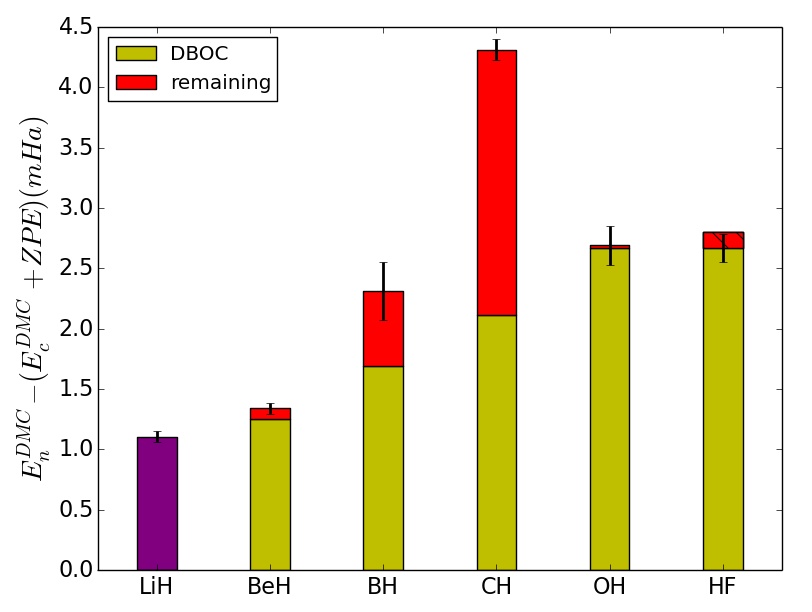
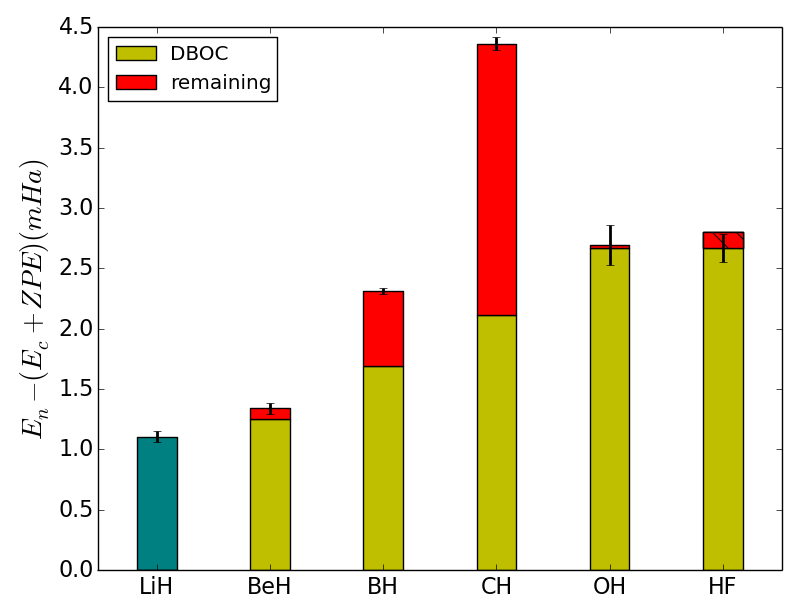
Beefed up atomic analysis
Still haven't put in Li+ results

diff --git a/main.tex b/main.tex
@@ -10,7 +10,7 @@
 \title{How Large are Non-adiabatic Effects in Realistic Systems?}
 \input{Section/authors}
 \begin{abstract}
-In this work we calculate the non-relativistic ground-state energies of atomic and molecular systems with and without the Born-Oppenheimer approximation. For this we utilize the fixed-node diffusion Monte Carlo method, in which the nodes depend on both the electronic and ionic positions. We report ground-state energies for all systems, ionization energies for the first-row atoms and atomization energies for the first-row hydrides. We find the ionization energies of the atoms to be independent of the Born-Oppenheimer approximation. The atomization energies, however, are influenced by the non-adiabatic coupling between electrons and nuclei at the mHa level. We demonstrate that the fixed-node approximation provides a highly accurate and scalable approach to treating molecular systems beyond the Born-Oppenheimer approximation.
+In this work we calculate the non-relativistic ground-state energies of atomic and molecular systems with and without the Born-Oppenheimer approximation. For this we utilize the fixed-node diffusion Monte Carlo method, in which the nodes depend on both the electronic and ionic positions. We report ground-state energies for all systems, ionization energies for the first-row atoms and atomization energies for the first-row hydrides. We find the ionization energies of the atoms to be independent of the Born-Oppenheimer approximation. The atomization energies, however, are influenced by the non-adiabatic coupling between electrons and nuclei at the sub mHa level. We demonstrate that the fixed-node approximation provides a highly accurate and scalable approach to treating molecular systems beyond the Born-Oppenheimer approximation.
 \end{abstract}
 \maketitle
 
@@ -29,16 +29,22 @@ In all but a handful of previous QMC simulations~\cite{Ceperley_1987,Natoli_1993
 
 \subsection{Electronic Wave Function and Optimization}
 
-There are several different approaches for generating high quality electronic wave functions for a FN-DMC calculation~\cite{Umrigar_Alleviation,Toulouse_Bench,Brown_Bench,Seth_Bench}. We use an initial guess for the wave function that is generated from complete active space self-consistent-field (CASSCF) \cite{Chaban_MCSCF,Szabo} calculations using the quantum chemistry package GAMESS \cite{GAMESS}. The optimized orbitals are then used in a configuration interaction singles and doubles (CISD) calculation to generate a series of configuration state functions (CSF)~\cite{Clark_Bench}. For LiH and BeH, a CASSCF calculation with a large active space is used in place of CISD. The specific choices of active space for the systems studied are listed in Table \ref{tab:CAS}. The multi-CSF expansion of the wave function can be expressed in the following form,
+There are several different approaches for generating high quality electronic wave functions for a FN-DMC calculation~\cite{Umrigar_Alleviation,Toulouse_Bench,Brown_Bench,Seth_Bench}. We use an initial guess for the wave function that is generated from complete active space self-consistent-field (CASSCF) \cite{Chaban_MCSCF,Szabo} calculations using the quantum chemistry package GAMESS \cite{GAMESS}. The optimized orbitals are then used in a configuration interaction singles and doubles (CISD) calculation to generate a series of configuration state functions (CSF)~\cite{Clark_Bench}. For LiH and BeH, a CASSCF calculation with a large active space is used in place of CISD and for Li$^+$ only a single determinant generated from Hartree-Fock is used. The specific choices of active space for the systems studied are listed in Table \ref{tab:CAS}. The multi-CSF expansion of the wave function can be expressed in the following form,
 \begin{align}
 \Psi_{\text{CISD}}(\vec{r};\vec{R}_o)=\sum\limits_{i=1}^{N_{\text{CSF}}}\alpha_i\phi_i(\vec{r};\vec{R}_o), \label{eq:psi_gms}
 \end{align}
 where $\vec{r}$ refers to the spatial coordinates of all the electrons and $\vec{R}_o$ refers to the equilibrium positions of all the ions. $\phi_i(\vec{r})$ and $\vec{\alpha}=\{\alpha_1,\alpha_2,\dots\}$ are the CSF and CI coefficients generated from CISD. The cc-pV5Z basis \cite{dunning} is used for the atomic systems and Roos Augmented Triple Zeta ANO basis~\cite{roos} for the molecular systems except for the smallest system LiH where the cc-pV5Z basis is used.
 
-\begin{table}
-\caption{Quantum Chemistry Parameters: CAS(m,n) indicates we distribute m electrons in to n active orbitals in the CASSCF calculation. All remaining molecular orbitals are used in the CISD procedure. For the larger systems, one core orbital is frozen in the CISD calculation.\label{tab:CAS}}
+After the multi-CSF expansion is generated, we impose the electron-nucleus cusp condition on each molecular orbital~\cite{cusp} and add a Jastrow factor to the wave function to include electron correlation~\cite{Kato}. Our Jastrow factor contains electron-electron, electron-nucleus and electron-electron-nucleus terms. The full electronic wave function used in FN-DMC is then,
+\begin{align}
+\psi_e(\vec{r};\vec{R})=e^{J(\vec{r},\vec{R},\vec{\beta})}\Psi_{\text{CISD}}(\vec{r};\vec{R})\label{eq:psie}
+\end{align}
+We optimize the CSF and Jastrow coefficients $\vec{\alpha},\vec{\beta}$ simultaneously with QMCPACK \cite{QMCPACK}. Optimization is performed with the ions clamped to their equilibrium positions. We include all CSFs with coefficients lager than a specific cutoff $\epsilon$ to lend reasonable flexibility to the wave function during optimization. We include as many CSFs as possible to maximize the flexibility of the wave function. However, the inclusion of too many CSFs with small expansion coefficients can introduce noise as they require a large number of samples in the optimization step to be optimized. We have chosen $\epsilon$ to restrict the number of CSFs in the wave function to be $\sim$1000 in all systems. Optimization was performed with the linear method with roughly $10^6$ statistically independent samples, and we use a cost function consisting of equal parts average local energy and reweighted variance. 
+
+\begin{table}[h]
+\caption{Quantum chemistry parameters: CAS(m,n) indicates we distribute m electrons in to n active orbitals in the CASSCF calculation. All remaining molecular orbitals are used in the CISD procedure. For the larger systems, one core orbital is frozen in the CISD calculation.\label{tab:CAS}}
 \begin{tabular}{lc|cc} \hline\hline
-$\text{Li}^+$ & CAS2.5-CISD(FCI) & Li & CAS3.23-CISDT(FCI) \\ 
+$\text{Li}^+$ & Hartree-Fock & Li & CAS3.23-CISDT(FCI) \\ 
 $\text{Be}^+$ & CAS3.18-CISD & Be & CAS4.20-CISD \\ 
 $\text{B}^+$ & CAS4.40-CISD & B & CAS5.40-CISD \\
 $\text{C}^+$ & CAS5.16-CISD & C & CAS6.16-CISD \\
@@ -50,12 +56,6 @@ BH & CAS4.14-CISD & CH & CAS7.20-CISD \\
 OH & CAS9.14-CISD(1) & HF & CAS10.16-CISD(1) \\ \hline \hline
 \end{tabular}
 \end{table}
-
-After the multi-CSF expansion is generated, we impose the electron-nucleus cusp condition on each molecular orbital~\cite{cusp} and add a Jastrow factor to the wave function to include electron correlation~\cite{Kato}. Our Jastrow factor contains electron-electron, electron-nucleus and electron-electron-nucleus terms. The full electronic wave function used in FN-DMC is then,
-\begin{align}
-\psi_e(\vec{r};\vec{R})=e^{J(\vec{r},\vec{R},\vec{\beta})}\Psi_{\text{CISD}}(\vec{r};\vec{R})\label{eq:psie}
-\end{align}
-We optimize the CSF and Jastrow coefficients $\vec{\alpha},\vec{\beta}$ simultaneously with QMCPACK \cite{QMCPACK}. Optimization is performed with the ions clamped to their equilibrium positions. We include all CSFs with coefficients lager than a specific cutoff $\epsilon$ to lend reasonable flexibility to the wave function during optimization. We include as many CSFs as possible to maximize the flexibility of the wave function. However, the inclusion of too many CSFs with small expansion coefficients can introduce noise as they require a large number of samples in the optimization step to be optimized. We have chosen $\epsilon$ to restrict the number of CSFs in the wave function to be $\sim$1000 in all systems. Optimization was performed with the linear method with roughly $10^6$ statistically independent samples, and we use a cost function consisting of equal parts average local energy and reweighted variance. 
 
 \begin{figure}[h]
 \includegraphics[width=9cm]{fig1a.pdf}
@@ -78,7 +78,7 @@ The ionic wave function consists of simple products of Gaussian wave functions o
 \psi_I(\vec{R})\propto \prod\limits_{i,j>i}e^{-a_{ij}(\vert \vec{R}_i-\vec{R}_j\vert-b_{ij})^2},
 \label{wfs_ions}
 \end{align}
-where $a_{ij}$ is a coefficient for the ionic wave function that is optimized and $b_{ij}$ are taken to be the equilibrium distances between the nuclei.  The equilibrium geometries for BeH and BH are chosen to be the ECG-optimized distances for comparison with the ECG method \footnote{We use 3.015 Bohr as the equilibrium inter-nuclei distance for LiH, as this geometry is found to provide a lower clamped-nuclei ground-state energy than the ECG optimized distance of 3.061 Bohr.}, and the geometries for the rest of the hydrides are taken from experimental data \cite{CCCBDB}. FN-DMC is then performed with the fully optimized electron-ion wave function. We perform timestep extrapolation for all of the tested systems. At least four timesteps from $0.005~\text{Ha}^{-1}$ to $0.0005~\text{Ha}^{-1}$ are used for all systems in the adiabatic FN-DMC calculation and at least three timesteps from $0.005~\text{Ha}^{-1}$ to $0.0001~\text{Ha}^{-1}$ are used in the non-adiabatic FN-DMC calculation.
+where $a_{ij}$ is a coefficient for the ionic wave function that is optimized and $b_{ij}$ are taken to be the equilibrium distances between the nuclei.  The equilibrium geometries for BeH and BH are chosen to be the ECG-optimized distances for comparison with the ECG method, and the geometries for the rest of the hydrides are taken from experimental data \cite{CCCBDB}. We use 3.015 Bohr as the equilibrium inter-nuclei distance for LiH, as this geometry is found to provide a lower clamped-nuclei ground-state energy than the ECG optimized distance of 3.061 Bohr. FN-DMC is then performed with the fully optimized electron-ion wave function. We perform timestep extrapolation for all of the tested systems. At least four timesteps from $0.005~\text{Ha}^{-1}$ to $0.0005~\text{Ha}^{-1}$ are used for all systems in the adiabatic FN-DMC calculation and at least three timesteps from $0.005~\text{Ha}^{-1}$ to $0.0001~\text{Ha}^{-1}$ are used in the non-adiabatic FN-DMC calculation.
 
 Using definitions from \cite{Cederbaum_Review}, the adiabatic approximation will refer to the complete negligence of the non-adiabatic coupling matrix $\hat{\Lambda}$ when the Schr$\ddot{\text{o}}$dinger equation is expressed in the basis of eigenstates of the electronic Hamiltonian. In this context, the non-adiabatic contribution to an eigenvalue of the electronic Hamiltonian can be partitioned into two parts: the diagonal Born-Oppenheimer correction (DBOC), which only involves the single electronic state of interest, and the remaining corrections arising from the inclusion of off-diagonal elements of $\hat{\Lambda}$. We define the clamped-nuclei ground-state energy $E_c$ as the lowest eigenvalue of the electronic Hamiltonian and the non-adiabatic ground-state energy $E_n$ as the lowest eigenvalue of the full molecular Hamiltonian.
 
@@ -97,50 +97,48 @@ Using definitions from \cite{Cederbaum_Review}, the adiabatic approximation will
 
 It is important to understand the quality of our results in regards to previous benchmarks, particularly results from the current best simulation techniques. The data for this analysis and the relevant references are contained in Table \ref{tab:ionization}. 
 
-For the clamped-ion results, highly accurate QMC and quantum chemistry benchmarks are available for comparison. To illustrate the high quality QMC techniques used in this work, we compare our clamped-ion atomic results with a recent QMC benchmark study~\cite{Seth_Bench}. The ground-state FN-DMC energies consistently agree across all systems (except for O and O$^{+}$) within 0.1 mHa. This is an interesting coincidence since we use different forms for our wave functions. In particular our large ($\sim$ 1000 CSF) multi-determinant expansions can be compared with the approach used by Seth {\it et al.}~\cite{Seth_Bench}, which relies on moderately-sized multi-determinant expansions ($\sim$ 100 CSF) with a backflow transformation. For certain atoms we can compare to more accurate simulation techniques. For C$^+$ as well as the neutral and ionized Li, Be and B, there exists highly accurate ECG calculations which are all converged well beyond 0.1 mHa to the true ground-state energy. The convergence is corroborated by Hylleraas results for Li and Be$^+$. In Table \ref{tab:ionization} we have used these results as our reference, as the convergence is such that the accuracy is higher than other current theoretical or experimental estimates. For these systems all of our clamped-ion results agree within 0.2 mHa of the ECG references as shown in Figure \ref{fig:atom-ECG}. In Figure \ref{fig:atom-ECG}, the error bars for the reference ECG results are absorbed into the DMC errorbars for clarity, although the ECG errorbars are orders of magnitude smaller compared to the DMC errorbars. While ECG results exist for C and N, they are not well converged and are not suitable references\cite{Bubin_C,Sharkey_N}. The benchmark results in Ref. \cite{Davidson_Atoms} are a standard for atomic energies, and we report them as our reference in Table \ref{tab:ionization} for the larger atoms. However, these benchmark results are not consistently accurate to 0.1 mHa. For instance if we use the ECG results for $\text{C}^+$ with the most accurate ionization reference energy, then we find a reference energy for C atom of -37.84489 Ha, which is 0.1 mHa higher than that reported in Ref.~\cite{Davidson_Atoms}. Nevertheless, a comparison of our results with the references suggests that our ground-state energies for the neutral and ionized N,O,F are not accurate to the sub mHa level. The systems with the most error are O and F, for which other QMC studies seem to experience similar difficulties~\cite{Seth_Bench,Booth_FCIQMC,Brown_Bench}. We note that it is possible to improve our wave functions even further with a different choice of orbitals and determinants~\cite{Morale_Bench}. However, it is unclear if sub mHa accuracy can be achieved for all systems with the current approach.
+For the clamped-ion results, highly accurate QMC and quantum chemistry benchmarks are available for comparison. To illustrate the high quality QMC techniques used in this work, we compare our clamped-ion atomic results with a recent QMC benchmark study~\cite{Seth_Bench}. The ground-state FN-DMC energies consistently agree across all systems (except for O and O$^{+}$) within 0.1 mHa. This is an interesting coincidence since we use different forms for our wave functions. In particular our large ($\sim$ 1000 CSF) multi-determinant expansions can be compared with the approach used by Seth {\it et al.}~\cite{Seth_Bench}, which relies on moderately-sized multi-determinant expansions ($\sim$ 100 CSF) with a backflow transformation. For certain atoms we can compare to more accurate simulation techniques. For C$^+$ as well as the neutral and ionized Li, Be and B, there exists highly accurate ECG calculations which are all converged well beyond 0.1 mHa to the true ground-state energy. The convergence is corroborated by Hylleraas results for Li and Be$^+$. In Table \ref{tab:ionization} we have used the lowest variational results as our references for these systems, as the convergence is such that the accuracy is higher than other current theoretical or experimental estimates. All of our clamped-ion results agree within 0.2 mHa of the ECG references as shown in Figure \ref{fig:atom-ECG}. In this figure, the error bars for the reference ECG results are absorbed into the DMC error bars for clarity, although the ECG error bars are orders of magnitude smaller compared to the DMC error bars. While ECG results exist for C and N, they are not well converged and are not suitable references~\cite{Bubin_C,Sharkey_N}. The benchmark results in Ref.~\cite{Davidson_Atoms} are a standard for atomic energies, and we report them as our references in Table \ref{tab:ionization} for the larger atoms. However, these benchmark results are not consistently accurate to 0.1 mHa. For instance if we use the ECG results for $\text{C}^+$ with the most accurate ionization reference energy, then we find a reference energy for C atom of -37.84489 Ha, which is 0.1 mHa higher than that reported in Ref.~\cite{Davidson_Atoms}. Nevertheless, a comparison of our results with the references suggests that our ground-state energies for the neutral and ionized N,O,F are not accurate to the sub mHa level. The systems with the most error are O and F, for which other QMC studies seem to experience similar difficulties~\cite{Seth_Bench,Booth_FCIQMC,Brown_Bench}. We note that it is possible to improve our wave functions even further with a different choice of orbitals and determinants~\cite{Morale_Bench}. However, it is unclear if sub mHa accuracy can be achieved for all systems with the current approach.
 
-It is more difficult to find accurate references for the non-adiabatic results. To the best of our knowledge, we provide the first QMC benchmarks for the non-adiabatic ground-state energies of the first-row atoms and must compare to results obtained with other techniques. There are six ECG calculations of non-adiabatic ground-state energies that are reportedly converged beyond 0.1 mHa, which we use as references. Our reported non-adiabatic ground-state energies for Li, Be, $\text{Be}^+$, B, $\text{B}^+$ and $\text{C}^+$ are in agreement with ECG results within 0.3 mHa as shown in Figure \ref{fig:atom-ECG}. For these systems, we assume the ECG results are converged to the exact ground-state energies in both the clamped-ion and non-adiabatic cases. The difference between our DMC ground-state and ECG reference is the amount of fixed-node error present in our wave functions. Notice the amount fixed-node error is virtually identical in the electronic wave function and electron-ion wave function of the same system, suggesting that our approach is capable of generating high quality electron-ion wave function from an optimized electronic wave function.
+It is more difficult to find accurate references for the non-adiabatic results. To the best of our knowledge, we provide the first non-adiabatic QMC benchmarks for the first-row atoms and can only compare to results obtained with other techniques. There are six ECG calculations of non-adiabatic ground-state energies that are reportedly converged beyond 0.1 mHa, which we use as references. Our reported non-adiabatic ground-state energies for Li, Be, $\text{Be}^+$, B, $\text{B}^+$ and $\text{C}^+$ are in agreement with ECG results within 0.3 mHa as shown in Figure \ref{fig:atom-ECG}. For these systems, we assume the ECG results are converged to the exact ground-state energies in both the clamped-ion and non-adiabatic cases. The difference between our DMC ground-state and ECG reference is the fixed-node error present in our wave functions. Notice the fixed-node error is virtually identical in the electronic wave function and electron-ion wave function of the same system, suggesting that our approach is capable of generating high quality electron-ion wave function from an optimized electronic wave function.
+
+\begin{figure}[h]
+\centering
+\includegraphics[scale=.37]{Figures/ionization}
+\caption{Calculated ionization energies relative to reference data. The calculated energies are all within 1 mHa of reference. \label{fig:ionization}}
+\end{figure}
+
+The ionization potentials are reported in Table \ref{tab:ionization} and shown in Figure \ref{fig:ionization}. For determining a set of reference data, we subtract the spin orbit and relativistic corrections from Klopper et. al.~\cite{Klopper_IP} and experimental data from NIST~\cite{NIST_Atoms}. We believe these are more accurate than another widely used reference~\cite{Davidson_Atoms} because the latter estimates ionization potentials in the infinite-nucleus-mass limit, and the former uses corrections from modern and state-of-the-art quantum chemistry techniques. However, the differences between the two references are only significant for obtaining benchmarks better than 0.5 mHa. For the atoms considered in this work, ionization energies have previously been predicted to be independent of all non-adiabatic effects beyond DBOC to within an accuracy of 0.1 mHa~\cite{Klopper_IP}. This prediction was based on calculations that were for all purposes reported to be exact and matched up to high accuracy with experiment. As shown in Figure \ref{fig:ionization}, the ionization potentials calculated with and without the Born-Oppenheimer approximation are all within 1 mHa of reference and are statistically indistinguishable for all systems, consistent with the previous study~\cite{Klopper_IP}.
 
 \begin{figure}[h]
 \includegraphics[scale=.37]{Figures/atom-nad-ad}
-\caption{Non-adiabatic contribution to ground state energies of atoms and ions calculated with FN-DMC. $E_n^{DMC}$ denotes the non-adiabatic ground state energy and $E_c^{DMC}$ the clamped-ion ground state energy. Non-adiabatic contribution is partitioned into DBOC and the remaining correction whenever data is available. A hatched bar indicates the contribution is negative. \label{fig:atom-nad-ad}} %Non-adiabatic contribution shows very little dependence with the ionized state.
+\caption{Non-adiabatic contribution to ground-state energies of atoms and ions calculated with FN-DMC. Non-adiabatic contribution is partitioned into DBOC and the remaining correction whenever data is available. A hatched bar indicates the contribution is negative. \label{fig:atom-nad-ad}} %Non-adiabatic contribution shows very little dependence with the ionized state.
 \end{figure}
 
 \begin{figure}[h]
 \includegraphics[scale=.4]{Figures/analytical}
-\caption{Non-adiabatic contribution to ground state energies of ions and their hydrogen-like atoms calculated with FN-DMC and analytically. $E_n$ denotes the non-adiabatic ground state energy and $E_c$ the clamped-ion ground state energy. \label{fig:analytical}}
+\caption{Non-adiabatic contribution to ground state energies of ions and their hydrogen-like atoms calculated with FN-DMC and analytically. \label{fig:analytical}}
 \end{figure}
 
-For the atoms considered in this work, ionization energies have previously been predicted to be independent of all non-adiabatic effects beyond the DBOC correction to within an accuracy of 0.1 mHa~\cite{Klopper_IP}.  This prediction was based on calculations that were for all purposes reported to be exact and matched up to high accuracy with experiment. In Figure \ref{fig:atom-nad-ad}, we demonstrate the amount of non-adiabatic contribution to ground-state energies in atoms and ions calculated as the difference between the non-adiabatic and clamped-ion ground-state energies. The amount of non-adiabatic contribution is always positive and increases with atomic number.  Using previous benchmark values for the DBOC corrections, we can break down the non-adiabatic energy of our system into a DBOC contribution and everything beyond the DBOC.  From our results we can see that for all the atoms the DBOC is the dominate contribution for the non-adiabatic energy, with the remaining amount being close to zero within error bars.  These results are consistent with the previous study, where for all molecules the non-adiabatic energy is relatively constant between the neutral and cationic species. This observation suggests that the amount of non-adiabatic contribution is closely related to the charge of the nucleus but is less sensitive to the number of electrons outside the core. This point is further illustrated by comparing the non-adiabatic contributions in the cations with their corresponding hydrogen-like atoms as shown in Figure \ref{fig:analytical}. The non-adiabatic contributions in the hydrogen-like atoms can be obtained analytically. The result in Hartree atomic units is
+In Figure \ref{fig:atom-nad-ad}, we demonstrate the amount of non-adiabatic contribution to the ground-state energies in atoms and ions calculated as the difference between the non-adiabatic and clamped-ion ground-state energies. The amount of non-adiabatic contribution is always positive and increases with atomic number. Using previous benchmark values for DBOC, we can break down the non-adiabatic energy of our system into a DBOC contribution and everything beyond the DBOC. We see in Figure \ref{fig:atom-nad-ad} that for all the atoms DBOC is the dominate contribution for the non-adiabatic energy, with the remaining amount being close to zero within error bars. These results are consistent with the previous study~\cite{Klopper_IP}, where for all molecules the non-adiabatic energy is relatively constant between the neutral and cationic species. This observation suggests that the amount of non-adiabatic contribution is closely related to the charge of the nucleus but is less sensitive to the addition or removal of the a valence electron. The non-adiabatic contributions in the cations can also be compared with those in their corresponding hydrogen-like atoms for a more in-depth analysis. The non-adiabatic contribution in a hydrogen-like atom can be obtained analytically. The result in Hartree atomic units is
 \begin{align}
 E_n-E_c=\frac{Z^2}{2}(1-\mu)
 \end{align}
-where $\mu=\frac{M}{M+1}$ is the reduced mass of the hydrogen-like atom and $M$,$Z$ are the the mass and atomic number of the nucleus respectively. We see in Figure \ref{fig:analytical} that even when going from 1 electron to 9 electrons in the case of F, the total non-adiabatic energy only changes by 0.5 mHa (17\%). It is also interesting to note that for $\text{Li}^{2+}$ and $\text{Be}^{3+}$, the addition of electrons decreases the overall non-adiabatic contribution.  However, the addition of an electron outside of the core, in consideration of $\text{Li}^{+}$ to Li, does not have much of an effect on the non-adiabatic energy contribution.   For $\text{C}^{5+}$ and heavier nuclei, the addition of electrons appears to only marginally increase the non-adiabatic energy.  %From our data there appears some non-adiabatic effects on the ionization energy for O and F, however with regards to a definitive study on ionization energies~\cite{Klopper_IP}, we believe this is likely due to fixed-node errors.
+where $\mu=\frac{M}{M+1}$ is the reduced mass of the hydrogen-like atom and $M$,$Z$ are the mass and atomic number of the nucleus respectively. The most illuminating case to consider is the transition from Li$^{2+}$ to Li. As shown in Figure \ref{fig:analytical} and \ref{fig:atom-nad-ad}, the addition of a core electron to Li$^{2+}$ decreases the non-adiabatic contribution while the further addition of a valance electron has no additional effect. It is also interesting to note that for $\text{Li}^{2+}$ and $\text{Be}^{3+}$, the addition of electrons decreases the overall non-adiabatic contribution, whereas for $\text{C}^{5+}$ and heavier nuclei, the addition of electrons increases the non-adiabatic energy.
 
-% This observation suggests that for atomic systems, the non-adiabatic coupling between electrons and the nucleus motion is small.
-% For atoms and ions, DBOC physically describes the effective confinement of the nucleus due to coupling between the electronic and nuclear motions. This confinement will add a nuclear kinetic contribution to the camped-ion ground-state energy. Non-adiabatic effect encompasses the rest of the modifications to the electron-ion wave function due to electron-nuclear correlation.
-
-The ionization potentials are reported in Table \ref{tab:ionization} and shown in Figure \ref{fig:ionization}. For determining a set of reference data, we combine the corrections from Klopper et. al.~\cite{Klopper_IP} and experimental data from NIST~\cite{NIST_Atoms}. We believe these are more accurate than another widely used reference~\cite{Davidson_Atoms} because the latter estimates ionization potentials in the infinite-nucleus-mass limit, and the former uses corrections from modern and state-of-the-art quantum chemistry techniques. However, the differences between the two references are only significant for obtaining benchmarks better than 0.5 mHa.
+%We see in Figure \ref{fig:analytical} that even when going from 1 electron to 9 electrons in the case of F, the total non-adiabatic energy only changes by 0.5 mHa (17\%). 
  
 %In particular, whenever our result is statistically different from the reference, we underestimate the ionization potential. One explanation for this trend is that it is significantly more difficult to obtain a good wave function for the neutral than the cationic species of a given nucleus.
 
 %It is interesting to note that even though the ground-state energy of an atom can differ significantly from the clamped-ion to the non-adiabatic calculation (as much as 3 mHa for $\text{F}^+$). 
-The ionization potentials calculated with and without the Born-Oppenheimer approximation are statistically indistinguishable except for O and F, where the non-adiabatic effects on the ionization energies are 0.26(11)mHa and 0.49(12)mHa respectively.  In consideration of a definitive study on ionization energies~\cite{Klopper_IP}, it is likely that these differences are mostly a result of the fixed-node approximation.   
 % as they are comparable to the fixed-node error shown in Figure \ref{fig:atom-ECG}. The estimated DBOC for the ionization potentials of O and F in~\cite{Klopper_IP} are both two orders of magnitude smaller than our error bars, which further suggests that the clamped-ion and non-adiabatic predictions of the ionization potentials should not be different at the sub-mHa level.
-
-\begin{figure}
-\centering
-\includegraphics[scale=.4]{Figures/ionization}
-\caption{Calculated ionization energies relative to experimental data. The calculated energies are all within 1 mHa of experiment. \label{fig:ionization}}
-\end{figure}
 
 \subsection{Hydrides}
 
 \input{Table/diatomics}
 
-In Table~\ref{tab:atomization}, we present our results on a series of molecular systems (hydrides). Finding accurate reference data for these systems to 0.1 mHa is not straightfoward, and to begin we use highly converged ECG data when available. Only one ECG calculation is performed in the clamped-nuclei limit for LiH. For the rest of the systems we combine semi-empirical data for the atoms~\cite{Davidson_Atoms} and thermochemistry~\cite{Feller_Corrections} estimates of the atomization energy to produce reference ground-state energies. For BeH and BH, our energies are also lower than the best available quantum chemistry results of -15.247846 Ha~\cite{Koput_BeH} and -25.287650 Ha~\cite{Miliordos_BH}. For the rest of the systems it is possible we have the lowest variational estimates for a majority of the systems, and for all the non-adiabatic we have the best result for BH, and the only results for CH, OH, and HF.  Our results consistently agree within 1 mHa of reference except for OH and HF where the errors are 3.0(2) mHa and 4.4(4) mHa respectively. Within quantum Monte Carlo, it is generally more difficult to obtain an accurate nodal surface for a molecule than for an atom. %Considering the atomic ground-state of O and F are only 2 mHa away from the reference whereas C is 5 mHa from the reference, it is actually more surprising that CH agrees within 1 mHa of reference.
+In Table \ref{tab:atomization}, we present our results on a series of molecular systems (hydrides). Finding accurate reference data for these systems to 0.1 mHa is not straightfoward, and to begin we use highly converged ECG data when available. Only one ECG calculation is performed in the clamped-nuclei limit for LiH. For the rest of the systems, we combined the best clamped-ion atomic references in Table \ref{tab:ionization} and thermochemistry estimates of $D_e$ in Table \ref{tab:atomization} to produce the reference ground-state energies. For BeH and BH, our energies are also lower than the best available quantum chemistry results of -15.247846 Ha~\cite{Koput_BeH} and -25.287650 Ha~\cite{Miliordos_BH}. For the rest of the systems it is possible we have the lowest variational estimates for a majority of the systems, and for all the non-adiabatic we have the best result for BH, and the only results for CH, OH, and HF. A comparison of our results with the references suggests that only the results for LiH and BeH are accurate to 0.1 mHa%, however, the energy differences we calculate should still be highly suggestive given the cancellation of error. %Our results consistently agree within 1 mHa of reference except for OH and HF where the errors are 2.5(2) mHa and 4.8(3) mHa respectively. Within quantum Monte Carlo, it is generally more difficult to obtain an accurate nodal surface for a molecule than for an atom. Considering the atomic ground-state of O and F are only 2 mHa away from the reference whereas C is 5 mHa from the reference, it is actually more surprising that CH agrees within 1 mHa of reference.
 
-Non-adiabatic ECG calculations only exist for the three smallest hydrides. Our results for LiH and BeH agree with the ECG references to within 0.4 mHa as shown in Figure \ref{fig:dia-ECG}. The ECG reference for LiH is converged to the true ground-state energy beyond 0.1 mHa and that our wave function has error of abour 0.2 mHa. For BeH, our result is within 0.1 mHa of the ECG reference and agree within errorbars. With BH being one of the largest ECG simulations performed, the DMC result is actually lower in energy, in this case by 1 mHa. The experimental error bars on BH are large, and it is not evident how close our results are to the ground state, although extrapolating the ECG results with basis set size suggest we are within 1 mHa of the true ground state.~\cite{Bubin_BeH_noBO}
+Non-adiabatic ECG calculations only exist for the three smallest hydrides. Our results for LiH and BeH agree with the ECG references to within 0.4 mHa as shown in Figure \ref{fig:dia-ECG}. The ECG reference for LiH is converged to the true ground-state energy beyond 0.1 mHa and that our wave function has error of abour 0.2 mHa. For BeH, our result is within 0.1 mHa of the ECG reference and agree within error bars. With BH being one of the largest ECG simulations performed, the DMC result is actually lower in energy, in this case by 1 mHa. The experimental error bars on BH are large, and it is not evident how close our results are to the ground state, although extrapolating the ECG results with basis set size suggest we are within 1 mHa of the true ground state.~\cite{Bubin_BeH_noBO}
 
 To estimate the non-adiabatic contribution to the ground-state energy, we need to calculate the difference between a non-adiabatic and an adiabatic reference. To produce adiabatic references we add the zero-point energies estimated by Feller et. al.~\cite{Feller_Corrections} to our clamped-nuclei energies. The results are shown in Figure \ref{fig:dia-nad-ad}. There are a few sources of error for these estimates. Firstly, there is likely more fixed-node error present in the electronic wave function for the hydrides than for the atoms. The drag-node approximation is also likely to introduce more error for the hydrides as the nodes change based on the inter-nuclear distance. Further to estimate the non-adiabatic contribution we currently use the zero-point energy from Feller et. al.~\cite{Feller_Corrections} as a correction and it is unclear how much error is present in these estimates. Our results in Figure \ref{fig:dia-nad-ad} seem to indicate that BH and CH have non-adiabatic energy contributions beyond the DBOC correction.  In particular for CH less than half of the non-adiabatic contribution is accounted for by the DBOC correction.  It is likely that the fixed-node error is responsible for some of this non-adiabatic energy, although just how much is difficult to determine.   The experimental results do not help significantly in estimating our errors.  For BH, the experimental error bars are too large, while for CH, the experiment errors suggest that a good part of our non-adiabatic energy is due to fixed-node error.
 
@@ -151,15 +149,15 @@ To estimate the non-adiabatic contribution to the ground-state energy, we need t
 \begin{figure}[h]
 \centering
 \includegraphics[scale=.37]{Figures/dia-ECG}
-\caption{Non-adiabatic FN-DMC ground-state energies of LiH, BeH and BH relative to ECG references. The errorbars for the non-adiabatic ECG references are shown as thick dark lines and the errorbars for the FN-DMC calculations are comparible to the size of the markers. \label{fig:dia-ECG}}
+\caption{Non-adiabatic FN-DMC ground-state energies of LiH, BeH and BH relative to ECG references. The error bars for the non-adiabatic ECG references are shown as thick dark lines and the error bars for the FN-DMC calculations are comparible to the size of the markers. \label{fig:dia-ECG}}
 \end{figure}
 
 \begin{figure}[h]
 \includegraphics[scale=.37]{Figures/dia-nad-ad}
-\caption{Non-adiabatic contribution to the ground-state energies in hydrides. The adiabatic reference energies are calculated by adding zero-point contributions from \cite{Feller_Corrections} to our clamped-nuclei results. A hatched bar indicates the contribution is negative. \label{fig:dia-nad-ad}}
+\caption{Non-adiabatic contribution to the ground-state energies in hydrides calculated with FN-DMC. The adiabatic reference energies are calculated by adding zero-point contributions from \cite{Feller_Corrections} to our clamped-nuclei results. A hatched bar indicates the contribution is negative. \label{fig:dia-nad-ad}}
 \end{figure}
 
-For the LiH molecule we are also interested in calculating the electron affinity for comparison to ECG results. We calculated the ground state energy of LiH$^-$ to be $-8.08220(2)$~Ha for the case of clamped nuclei. With non-adiabatic effects included our result is  $-8.07811(3)$~Ha. Our non-adiabatic result is in good agreement with a previous ECG study \cite{Bubin_LiH_noBO}, which reported a value of $-8.07856887$~Ha. We report an electron affinity of $0.01191(4)$~Ha, which can be compared to the ECG prediction of $0.012132(2)$~Ha and agrees with experiment, $0.0126(4)$~Ha. \footnote{We note that LiH ground state energies which we compare against are mislabeled in Ref.\cite{Bubin_LiH_noBO}, with $\text{LiH}^-$ and LiD being switched.}
+(\textbf{this paragraph doesn't fit the story}) For the LiH molecule we are also interested in calculating the electron affinity for comparison to ECG results. We calculated the ground state energy of LiH$^-$ to be $-8.08220(2)$~Ha for the case of clamped nuclei. With non-adiabatic effects included our result is  $-8.07811(3)$~Ha. Our non-adiabatic result is in good agreement with a previous ECG study \cite{Bubin_LiH_noBO}, which reported a value of $-8.07856887$~Ha. We report an electron affinity of $0.01191(4)$~Ha, which can be compared to the ECG prediction of $0.012132(2)$~Ha and agrees with experiment, $0.0126(4)$~Ha. \footnote{We note that LiH ground state energies which we compare against are mislabeled in Ref.\cite{Bubin_LiH_noBO}, with $\text{LiH}^-$ and LiD being switched.}
 
 \begin{figure}[h]
 \centering

diff --git a/Table/diatomics.tex b/Table/diatomics.tex
@@ -31,7 +31,7 @@
 \multicolumn{1}{c}{} &
 \multicolumn{1}{c}{} &
 \multicolumn{1}{c}{} \\
-FN-DMC & \text{-}8.070515(8) & \text{-}15.24793(1) & \text{-}25.28868(2) & \text{-}38.4781(1) & \text{-}75.7352(1) & \text{-}100.4556(2) \\
+FN-DMC & \text{-}8.07052(1) & \text{-}15.24793(2) & \text{-}25.28867(2) & \text{-}38.47801(4) & \text{-}75.7357(1) & \text{-}100.4552(1) \\
 $E_{\text{ref}}$ \tnote{a} & \text{-}8.0705473 & \text{-}15.2483(4) & \text{-}25.2893(2) & \text{-}38.4792(2) & \text{-}75.7382(2) & \text{-}100.4600(3) \\
 \multicolumn{1}{c}{} & 
 \multicolumn{1}{c}{} &
@@ -40,7 +40,7 @@ $E_{\text{ref}}$ \tnote{a} & \text{-}8.0705473 & \text{-}15.2483(4) & \text{-}25
 \multicolumn{1}{c}{} &
 \multicolumn{1}{c}{} &
 \multicolumn{1}{c}{} \\
-\textbf{FN-DMC} & \text{-}8.06607(4) & \text{-}15.24198(6) & \text{-}25.28103(5) & \text{-}38.4671(2) & \text{-}75.7248(2) & \text{-}100.4432(2) \\
+\textbf{FN-DMC} & \text{-}8.06624(4) & \text{-}15.24194(4) & \text{-}25.28102(2) & \text{-}38.46721(3) & \text{-}75.72453(9) & \text{-}100.44315(7) \\
 ECG \cite{Bubin_LiH_noBO,Bubin_BeH_noBO,Bubin_BH_noBO} & \text{-}8.0664371(15) & \text{-}15.24203(10) & \text{-}25.2803(10) & N/A & N/A & N/A \\
 \hline
 
@@ -51,7 +51,7 @@ ECG \cite{Bubin_LiH_noBO,Bubin_BeH_noBO,Bubin_BH_noBO} & \text{-}8.0664371(15) &
 \multicolumn{1}{c}{} &
 \multicolumn{1}{c}{} &
 \multicolumn{1}{c}{} \\
-$D_{e}$ (this work) & 0.092459(9) & 0.08062(1) & 0.13491(2) & 0.13361(2) & 0.16944(4) & 0.2240(2) \\
+$D_e$ (this work) & 0.09246(1) & 0.08062(2) & 0.13493(3) & 0.13353(5) & 0.1699(1) & 0.2234(1) \\
 $D_e$ Feller \tnote{b} & 0.09262(5) & 0.0809(4) & 0.1354(2) & 0.1342(2) & 0.1709(2) & 0.2258(3) \\
 \multicolumn{1}{c}{} & 
 \multicolumn{1}{c}{} &
@@ -60,13 +60,13 @@ $D_e$ Feller \tnote{b} & 0.09262(5) & 0.0809(4) & 0.1354(2) & 0.1342(2) & 0.1709
 \multicolumn{1}{c}{} &
 \multicolumn{1}{c}{} &
 \multicolumn{1}{c}{} \\
-$D_o$ (this work) & 0.08894(4)  & 0.07585(6)  & 0.12893(7) & 0.1246(2) & 0.1621(2) & 0.2143(2) \\
+$D_o$ (this work) & 0.08908(4)  & 0.07578(4)  & 0.12890(4) & 0.12480(9) & 0.1617(1) & 0.2141(1) \\
 $D_o$ Feller \tnote{c} & 0.08940(5) & 0.0761(4) & 0.1299(2) & 0.1276(2) & 0.1622(2) & 0.2166(3)\\
 $D_o$ Exp. \cite{CCCBDB,HH} & 0.08874(38) & 0.07475(4)\tnote{d} & 0.1281(37) & 0.1275(5) & 0.1622(1) & 0.2158(3) \\
 \hline\hline
 \end{tabular}
 \begin{tablenotes}
-\item[a] For LiH, ECG provides the best reference energy\cite{Adamowicz_LiH}. For the rest of the systems, we combined the best clamped-ion atomic references in Table \ref{tab:ionization} and thermochemistry estimates of $D_e$ in this table~\cite{Feller_Corrections} to produce the reference ground-state energies.
+\item[a] For LiH, ECG provides the best reference energy~\cite{Adamowicz_LiH}. For the rest of the systems, we combined the best clamped-ion atomic references in Table \ref{tab:ionization} and thermochemistry estimates of $D_e$ in this table~\cite{Feller_Corrections} to produce the reference ground-state energies.
 \item[b] Best estimates for $D_e$ are calculated by subtracting the scalar relativistic, spin-orbit coupling and zero-point energy corrections from the reference $D_o$ in Table VI of Ref.~\cite{Feller_Corrections}.
 \item[c] Here only the scalar relativistic and spin-orbit coupling corrections are subtracted.
 \item[d] The atomization energy for BeH in Ref.~\cite{CCCBDB} disagrees with previous high level theoretical benchmarks~\cite{Feller_Corrections,Bubin_BeH_noBO}, thus we use Ref.~\cite{HH} instead.

diff --git a/Section/acknowledgment.tex b/Section/acknowledgment.tex
@@ -1,1 +1,1 @@
-The authors would like to thank Mike Pak and Kurt Brorsen for useful discussions. This work was supported by the U.S. Department of Energy grant No. 1-485267-244000-191100 as part of the Scientific Discovery through Advanced Computing (SciDAC) program. We used the Extreme Science and Engineering Discovery Environment (XSEDE), which is supported by the National Science Foundation Grant No. OCI-1053575 and resources of the Oak Ridge Leadership Computing Facility (OLCF) at the Oak Ridge National Laboratory, which is supported by the Office of Science of the U.S. Department of Energy under Contract No. DE-AC05-00OR22725.
+The authors would like to thank Mike Pak, Kurt Brorsen, Katharina Doblhoff-Dier and Brian Busemeyer for useful discussions. This work was supported by the U.S. Department of Energy grant No. 1-485267-244000-191100 as part of the Scientific Discovery through Advanced Computing (SciDAC) program. We used the Extreme Science and Engineering Discovery Environment (XSEDE), which is supported by the National Science Foundation Grant No. OCI-1053575 and resources of the Oak Ridge Leadership Computing Facility (OLCF) at the Oak Ridge National Laboratory, which is supported by the Office of Science of the U.S. Department of Energy under Contract No. DE-AC05-00OR22725.
